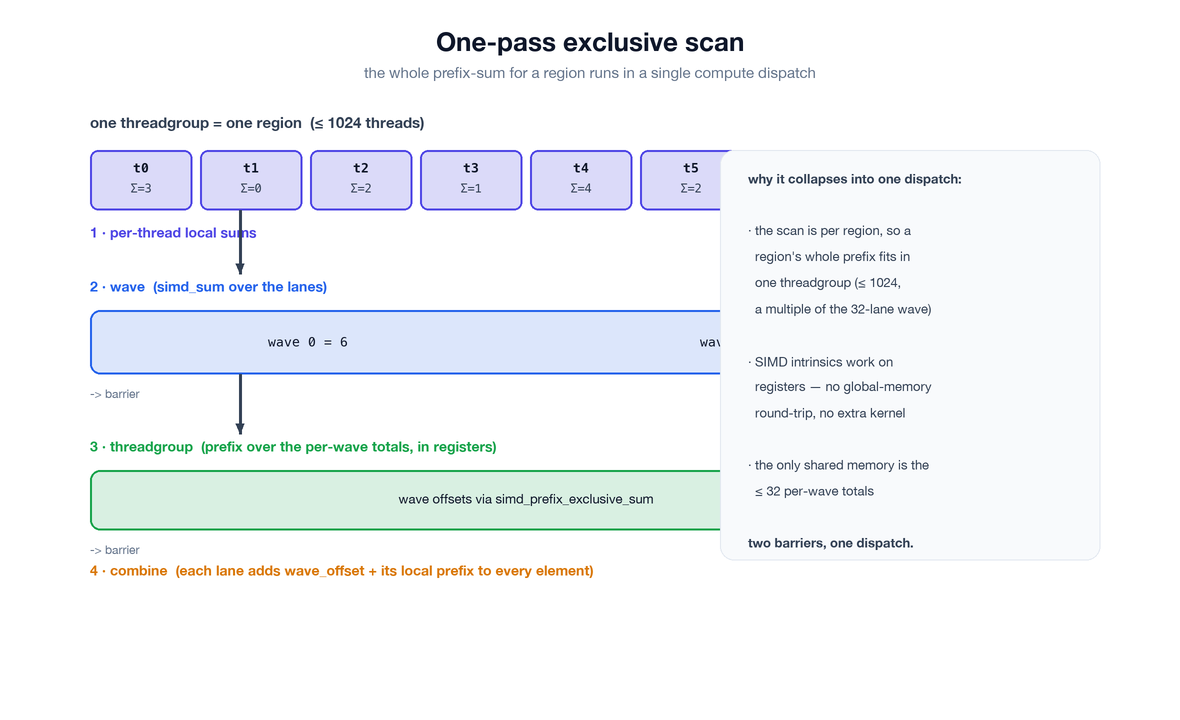
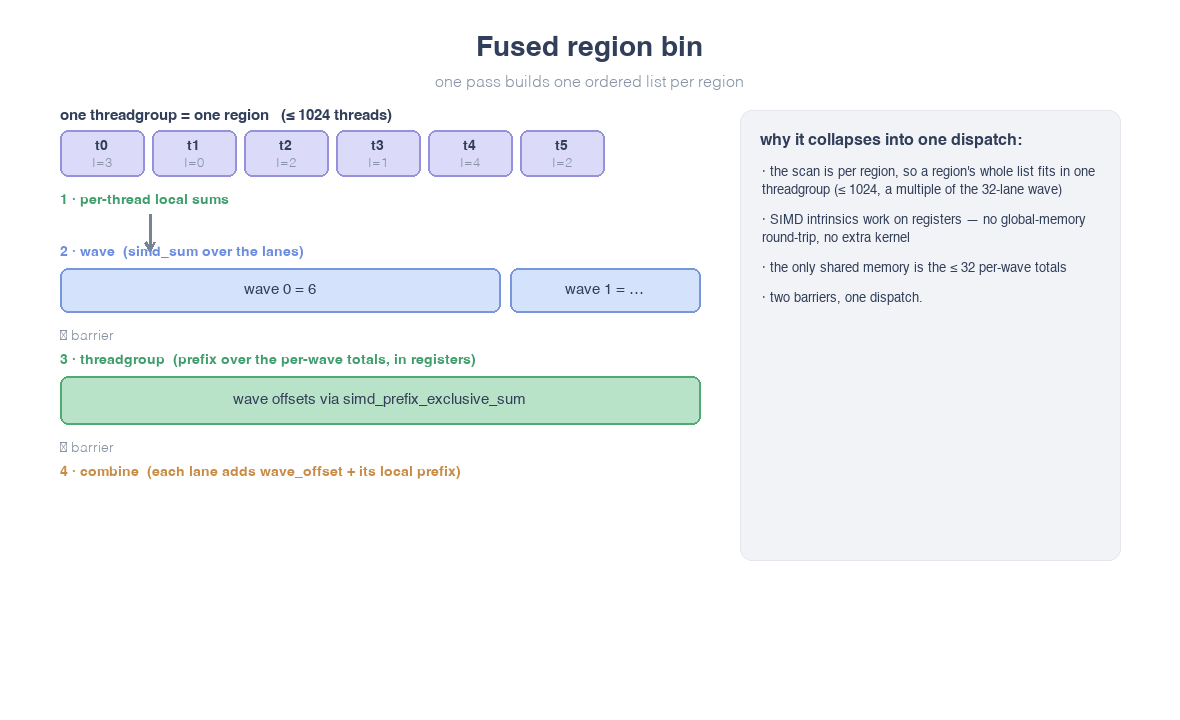
updated the docs and regenerated the diagrams for the fused binning pipeline

diff --git a/doc/part2.md b/doc/part2.md
@@ -16,7 +16,7 @@ A naïve command×tile pass could easily cost more than the actual rasterization
 
 The first optimization is to store an **AABB** (axis-aligned bounding box) per command and use it as a cheap pre-test before any heavier intersection math. The boxes are **quantized** to the tile resolution (16 px): each edge is a single byte holding a *tile* index (`0…255`), which also caps the viewport at 256 × 16 = 4096 px.
 
-The AABBs are also kept in a **separate buffer** from the draw commands, avoiding cache thrash and giving the predicate pass a tight, coalesced read.
+The AABBs are also kept in a **separate buffer** from the draw commands, avoiding cache thrash and giving the region bin pass a tight, coalesced read.
 
 ---
 
@@ -28,41 +28,39 @@ Even with AABB pre-tests, many commands still force each tile to do a lot of wor
 
 A region covers **16 × 16 tiles**, and each region keeps a list of the commands that affect it. When binning individual tiles, we only consider the commands from that region's list instead of all global commands.
 
-The catch: if we assign one thread per *region*, the pass is slow — there are few regions but many commands, and GPUs run best with a **large number of lightweight threads**, not a few heavy ones. So we **invert the process**: each thread handles a single command and adds it to every region its AABB touches. Doing that in parallel loses the guaranteed **command ordering**, which is critical in 2D rendering. That ordering problem is what the predicate + scan solves next.
+The catch: one thread per *region* would be too few threads — there are few regions but many commands, and GPUs run best with a **large number of lightweight threads**, not a few heavy ones. `onedraw` splits the difference: the region's list is built by **one threadgroup of up to 1,024 threads per region**, which walks the command list and keeps it in **command ordering** via a per-step prefix sum — the next section.
 
-## Predicate + exclusive scan
+## Fused region bin
 
-To restore order, we use the classic pattern:
+Earlier designs built each region's list with three separate kernels — a per-command **predicate**, an **exclusive scan**, and a **scatter** — going through two region-sized buffers. `onedraw` fuses all three into a **single kernel** (`region_bin`). One **threadgroup per region** (up to 1,024 threads, 32 waves) walks the command list in steps of its size; each thread tests one command per step, reading neighbour AABBs in a coalesced pattern so the (shared) AABB buffer stays in cache. The visibility is recomputed each step rather than stored, so there is no predicate or scan buffer to allocate.
 
-![Predicate + exclusive scan](predicate.png)
+![The fused region bin: one pass builds one ordered list](onepass-scan.png)
 
-* A **predicate** kernel evaluates the visibility of each command (one thread per command) and writes a `0` / `1` mask.
-* An **exclusive scan** turns that mask into a compact position for each visible command.
-* A scatter pass uses the mask + indices to write the visible commands into the region lists, in order.
+Each step runs the same three-stage compacting that the separate-kernel design needed — a test, a prefix sum, and a scatter:
 
-This keeps a **thread-per-command** model while filtering out invisible commands. The same sequence is applied for every region. With real values for one region, a visible command's scan value is exactly its slot in the compact list, and hidden commands fall through:
+![Test, scan, scatter — in draw order](predicate.png)
+
+* a **test** of the command's AABB against the region gives a `0` / `1` visibility,
+* an **exclusive scan** (the prefix sum below) turns the `1`s into a compact slot,
+* a **scatter** writes the visible commands into the region's list, in order.
+
+With real values for one region, a visible command's scan value is exactly its slot in the compact list, and hidden commands fall through:
 
 ![One region, with real values](scan-example.png)
 
-## One-pass exclusive scan
+The prefix sum runs in one dispatch per region, collapsed by two facts:
 
-Building a compact, ordered list from a per-command visibility mask is a textbook **exclusive scan**. The standard solution is *cascaded* — a block-level prefix sum, a scan over the per-block totals, then adding the offsets back — which means three or four kernel launches.
+1. **The scan is per region.** Each threadgroup is one region's line of threads. The list is built in steps of the threadgroup size, so each step's prefix fits in a dispatch of at most **1,024 threads** (a multiple of the 32-lane wavefront, which `simd_prefix_exclusive_sum` requires).
+2. **SIMD intrinsics collapse the middle level.** Each 32-lane wave reduces with `simd_sum` / `simd_prefix_exclusive_sum`, which operate on registers — no global-memory round trip and no extra kernel.
 
-![One-pass exclusive scan](onepass-scan.png)
+Inside each step the prefix sum runs four levels:
 
-`onedraw` does the whole thing in **one dispatch**, thanks to two facts:
+1. **Lane.** `simd_prefix_exclusive_sum` over the 32 lanes of a wave gives each command its in-wave offset.
+2. **Wave.** `simd_sum` hands every lane the wave's visible count; the first lane stores it to threadgroup memory. → **barrier**
+3. **Threadgroup.** The first `num_waves` lanes run `simd_prefix_exclusive_sum` over the per-wave totals to compute each wave's offset. → **barrier**
+4. **Combine.** Each visible command is scattered at `running_total + wave_offset + lane_offset`, where `running_total` carries the count from the previous step.
 
-1. **The scan is per region.** The kernel is dispatched as a `(threads_per_region, num_regions)` grid with a `(threads_per_region, 1)` threadgroup, so *each threadgroup is one region's line of threads*. With up to 65,536 commands and `num_elements_per_thread = ⌈count / 1024⌉`, a region's entire prefix fits in a single threadgroup of at most **1,024 threads** (a multiple of the 32-lane wavefront, which `simd_prefix_exclusive_sum` requires).
-2. **SIMD intrinsics collapse the middle level.** Within the threadgroup, each 32-lane wave reduces with `simd_sum` / `simd_prefix_exclusive_sum`, which operate on registers — no global-memory round trip and no extra kernel.
-
-Inside that single dispatch the kernel runs four levels:
-
-1. **Local (per thread).** Each thread walks its block of `num_elements_per_thread` elements, writing the running exclusive sum to `scan[]` and keeping `local_sum` — the visible count in its block.
-2. **Wave (32 lanes).** `simd_sum(local_sum)` hands every lane the sum of the whole wave; the first lane stores it to threadgroup memory. → **barrier**
-3. **Threadgroup (≤ 32 waves).** The first `num_waves` lanes run `simd_prefix_exclusive_sum` over the per-wave totals to compute each wave's offset. → **barrier**
-4. **Combine.** Every lane adds `wave_offset + simd_prefix_exclusive_sum(its local_sum)` to each element of its block.
-
-The only shared-memory traffic is the ≤ 32 per-wave totals, so a region's entire prefix sum finishes in one compute dispatch with two barriers. The following `region_bin` kernel then scatters each visible command into its region's slot at the scanned position — using a **reversed index** so that the later tile linked-list (built by prepending) ends up front-to-back.
+The only shared-memory traffic is the ≤ 32 per-wave totals. The `region_bin` writes indices in a **reversed** order (top-most first) and ends each list with a `LAST_COMMAND` terminator, so the output lists are byte-identical to the older three-kernel chain — but the predicate and scan buffers, and two kernel launches, are gone.
 
 You can look at the [binning shader](../src/shaders/binning.metal).
 

diff --git a/doc/part5.md b/doc/part5.md
@@ -4,16 +4,16 @@
 
 ![GPU memory at 1440p](memory.png)
 
-To be honest, the memory usage is a bit higher than I would like. The chart above breaks down the renderer's **GPU memory at 1440p (2560×1440)** into its pieces. The takeaway is that **the 32 MB per-tile node pool is the anchor**: it is the single biggest consumer (~44 %) and it is fixed, sized to `MAX_NODES_COUNT` rather than the framebuffer. `MAX_NODES_COUNT` is ~4 million by default and could be reduced to save memory.
+To be honest, the memory usage is a bit higher than I would like. The chart above breaks down the renderer's **GPU memory at 1440p (2560×1440)** into its pieces. The takeaway is that **the 32 MB per-tile node pool is the anchor**: it is the single biggest consumer (~52 %) and it is fixed, sized to `MAX_NODES_COUNT` rather than the framebuffer. `MAX_NODES_COUNT` is ~4 million by default and could be reduced to save memory.
 
 Everything else is a smaller slice:
 
-* **Region buffers (~26 %)** — `predicate` / `scan` / `indices` are sized to the resolution, because every command is evaluated against every region.
-* **Screenshot (~20 %)** — the framebuffer-sized capture texture; it only exists when `allow_screenshot` is set, so it is the first thing to drop.
-* **Per-frame CPU ring (~8 %)** — commands, colors, draw data, quantized AABBs and clips, **triple-buffered** so three frames can be in flight.
-* **Other (~2 %)** — the font atlas (BC4), the glyph buffer, the user texture array, the small per-tile head/index buffers, and the cache bookkeeping (per-tile hash, clean-tile index, per-command content hash).
+* **Region lists (~12 %)** — the per-region `indices` lists are sized to the resolution, because a command can reach several regions. (The `predicate` and `scan` buffers of the older three-kernel design are gone — region binning is fused into a single kernel now.)
+* **Screenshot (~23 %)** — the framebuffer-sized capture texture; it only exists when `allow_screenshot` is set, so it is the first thing to drop.
+* **Per-frame CPU ring (~10 %)** — commands, colors, draw data, quantized AABBs and clips, **triple-buffered** so three frames can be in flight.
+* **Other (~3 %)** — the font atlas (BC4), the glyph buffer, the user texture array, the small per-tile head/index buffers, and the cache bookkeeping (per-tile hash, clean-tile index, per-command content hash).
 
-One piece is missing from the chart on purpose: the [tile cache](part1.md) is **opt-in**, and the chart is the `cache`-off configuration, where only a 1×1 placeholder texture is kept. With the flag on, a full-screen texture in the backbuffer format (4 bytes per pixel — ~14 MiB at 1440p, up to 64 MiB at the 4096×4096 maximum) is added on top, bringing the 1440p total from ~72 MB to ~86 MB.
+One piece is missing from the chart on purpose: the [tile cache](part1.md) is **opt-in**, and the chart is the `cache`-off configuration, where only a 1×1 placeholder texture is kept. With the flag on, a full-screen texture in the backbuffer format (4 bytes per pixel — ~14 MiB at 1440p, up to 64 MiB at the 4096×4096 maximum) is added on top, bringing the 1440p total from ~62 MB to ~76 MB.
 
 So the fixed node pool sets the floor, and the resolution-scaled region, screenshot and cache buffers are what grow with the viewport. Because every buffer is fixed-capacity, the figure reported by `od_get_stats()` is a stable upper bound rather than a per-frame measurement — it stays the same no matter how many commands you actually draw in a frame.
 

diff --git a/doc/index.md b/doc/index.md
@@ -43,10 +43,8 @@ The whole binning phase runs **on the GPU** as a short chain of compute kernels 
 | Stage | What it does |
 |-------|--------------|
 | **draw commands** | The CPU writes a flat list of commands (type, color, quantized AABB, `data[]`) into a triple-buffered ring. |
-| **predicate** | One thread per command records whether the command is visible in each region (`0` / `1`). |
-| **exclusive scan** | A prefix-sum over the predicate mask computes a compact slot for each visible command. |
-| **region bin** | Scatters the visible, order-preserving indices into each region's list. |
-| **tile bin** | For every tile, walks its region's list and appends the matching commands to the per-tile linked list. |
+| **region bin** | One threadgroup per region walks the command list, testing each command's AABB against the region and scattering the visible, order-preserving indices into the region's list — a fused predicate + scan + scatter in a single kernel. |
+| **tile bin** | For every tile, walks its region's list and appends the matching commands to the per-tile linked list, keeping each tile's head in a register. |
 | **write indirect args** | Counts the tiles to shade and the tiles to copy, and writes the two indirect draw buffers. |
 
 Because every tile with at least one command is appended to a list of tiles to render, the **indirect draw** rasterizes *only* the tiles that need it — no full-screen pass, and no CPU work after `od_end_frame()`. With the [tile cache](part1.md) on, only the tiles that changed this frame are shaded; unchanged tiles are appended to a second list and redrawn from the cache by a second indirect draw.

diff --git a/doc/part1.md b/doc/part1.md
@@ -42,7 +42,7 @@ Each begin/end group command carries a **global bounding box** that encompasses 
 
 ![Empty groups are cleaned per tile](group-empty.png)
 
-On the CPU side, `od_begin_group()` reserves one slot in the quantized-AABB buffer, every shape drawn while the group is open is merged into it, and `od_end_group()` copies the accumulated box onto the end command. On the GPU, the `tile_bin` kernel walks the (reverse-order) list while tracking the current group's extra margin, and a final `clean_list()` step drops any `begin`/`end` pair that wraps zero primitives for that tile.
+On the CPU side, `od_begin_group()` reserves one slot in the quantized-AABB buffer, every shape drawn while the group is open is merged into it, and `od_end_group()` copies the accumulated box onto the end command. On the GPU, the `tile_bin` kernel walks the (reverse-order) list while tracking the current group's extra margin. It defers a group's `end` command and only emits the `begin`/`end` pair once a primitive in the group actually reaches the tile, so a group that wraps zero primitives for that tile produces no nodes — no separate clean-up pass.
 
 ---
 
